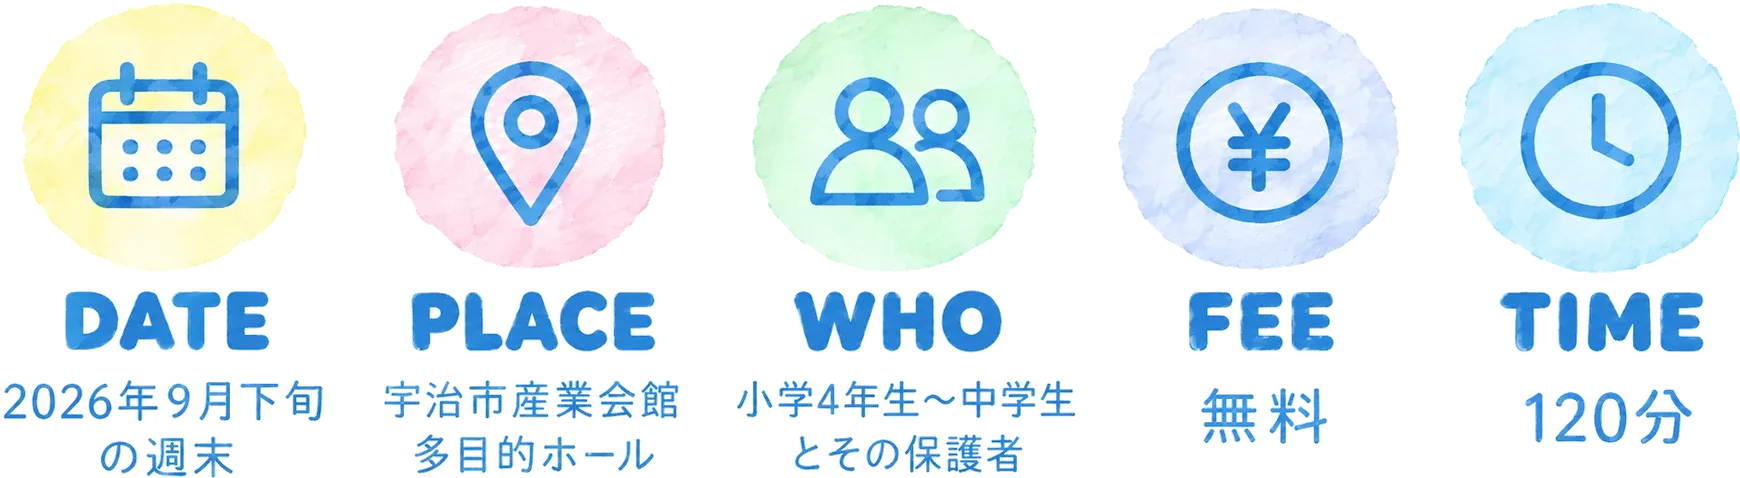
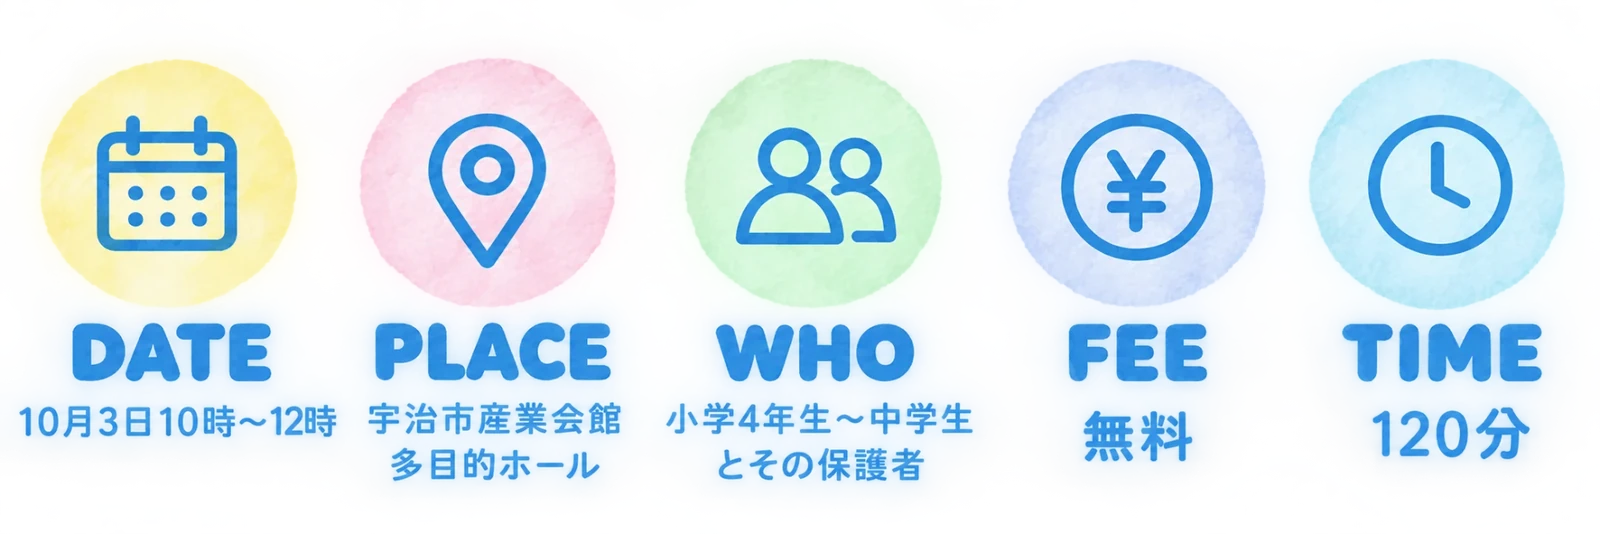
Update the event date to 2026-10-03 and swap the facts artwork
日程が確定したため、情報帯の画像を新しいものに差し替え、
ページ内の日程の表記をすべて入れ替えた。

- assets/hero-facts.webp を差し替え（1600x534 / 328KB）。縦横比が
  3.64 から 3.00 になり縦に伸びるぶん、下端が変わらないよう
  上端を 43.46cqw から 40.93cqw に上げた。キャッシュ対策に ?v=3
- 実施概要の日程: 2026年9月下旬の週末（調整中）→ 2026年10月3日（土）10時〜12時
- 「日程は決まりしだい、このページでお知らせします。」の一文を削除
- フッター: 2026年10月3日（土）・宇治市産業会館 多目的ホールで開催
- meta description / og:description、画像の代替テキスト、
  非表示のキーファクト（DATE）も同じ表記に

1280x800 / 1440x800 / 1920x1080 / 1366x657 / 390x760 で、情報帯が
ヒーローから切れずスクロールなしで全部見えることを確認。

diff --git a/index.html b/index.html
@@ -4,10 +4,10 @@
 <meta charset="utf-8">
 <meta name="viewport" content="width=device-width, initial-scale=1">
 <title>まちであそぶ、をつくる｜Playable City 入門ワークショップ（宇治NEXT）</title>
-<meta name="description" content="歩くと光の足あとが現れる装置「Color Shift Walk」を体験しながら、宇治のまちの遊び方を考える120分のワークショップ。2026年9月下旬・宇治市産業会館 多目的ホール、小学4年生〜中学生（保護者の同伴は任意）、参加無料。">
+<meta name="description" content="歩くと光の足あとが現れる装置「Color Shift Walk」を体験しながら、宇治のまちの遊び方を考える120分のワークショップ。2026年10月3日（土）10時〜12時・宇治市産業会館 多目的ホール、小学4年生〜中学生（保護者の同伴は任意）、参加無料。">
 <meta property="og:type" content="website">
 <meta property="og:title" content="まちであそぶ、をつくる｜Playable City 入門ワークショップ（宇治NEXT）">
-<meta property="og:description" content="歩くと光の足あとが現れる装置「Color Shift Walk」を体験しながら、宇治のまちの遊び方を考える120分のワークショップ。2026年9月下旬・宇治市産業会館 多目的ホール、小学4年生〜中学生（保護者の同伴は任意）、参加無料。">
+<meta property="og:description" content="歩くと光の足あとが現れる装置「Color Shift Walk」を体験しながら、宇治のまちの遊び方を考える120分のワークショップ。2026年10月3日（土）10時〜12時・宇治市産業会館 多目的ホール、小学4年生〜中学生（保護者の同伴は任意）、参加無料。">
 <meta property="og:image" content="https://machi-play.com/assets/ogp.jpg">
 <meta property="og:image:width" content="1200">
 <meta property="og:image:height" content="630">
@@ -170,7 +170,7 @@ html{scroll-padding-top:var(--nav-h)}
    「Playable City 入門ワークショップ」が地図の絵や付箋にかぶらないようにする（縦横比 1.7077） */
 .title-img{left:5.26cqw;top:max(4.6cqw,var(--hero-safe-top));width:min(46.7cqw,calc(1.7077 * (31.94cqw - max(4.6cqw,var(--hero-safe-top)))));height:auto;display:block}
 .facts-bg{left:0;top:40.2cqw;width:60cqw;height:18cqw;background:rgba(255,255,255,.93);border-radius:3cqw;filter:blur(16px);z-index:0}
-.facts-img{left:7.7cqw;top:43.46cqw;width:43.2cqw;height:auto;display:block;z-index:1}
+.facts-img{left:7.7cqw;top:40.93cqw;width:43.2cqw;height:auto;display:block;z-index:1}
 .hnote,.hnote p{font-family:"Yomogi","Zen Maru Gothic",cursive,sans-serif}
 .hnote{position:absolute;line-height:1.55}
 /* デモ体験の付箋（左右のアクセントも画像に含まれる）
@@ -653,7 +653,7 @@ footer a{color:#fff;text-decoration:none;border-bottom:1px solid rgba(255,255,25
     <div class="hero-art">
       <img class="title-img" width="625" height="366" src="assets/hero-title.webp?v=3" alt="まちで遊ぶことは まちを好きになること／まちであそぶ、をつくる — Playable City 入門ワークショップ" decoding="async">
       <span class="facts-bg" aria-hidden="true"></span>
-      <img class="facts-img" width="1740" height="478" src="assets/hero-facts.webp?v=2" alt="DATE 2026年9月下旬の週末／PLACE 宇治市産業会館 多目的ホール／WHO 小学4年生〜中学生（保護者の同伴は任意）／FEE 無料／TIME 120分" decoding="async">
+      <img class="facts-img" width="1600" height="534" src="assets/hero-facts.webp?v=3" alt="DATE 2026年10月3日（土）10時〜12時／PLACE 宇治市産業会館 多目的ホール／WHO 小学4年生〜中学生（保護者の同伴は任意）／FEE 無料／TIME 120分" decoding="async">
       <img class="hnote-demo-img" src="assets/hero-note-demo.webp" width="560" height="493" alt="" aria-hidden="true" decoding="async">
       <p class="hnote hnote-map" aria-hidden="true">こんな<br>まちに<br>したい！</p>
     </div>
@@ -668,8 +668,8 @@ footer a{color:#fff;text-decoration:none;border-bottom:1px solid rgba(255,255,25
         <div class="kf">
           <span class="ic"><svg class="blob" viewBox="0 0 76 66" aria-hidden="true"><path d="M40 6 C58 2 76 16 72 32 C69 48 56 66 36 63 C16 60 0 48 4 30 C7 14 22 9 40 6 Z" fill="rgba(255,212,59,.42)" opacity=".5" transform="rotate(16 38 33) scale(1.06) translate(-2 -2)"/><path d="M38 3 C55 1 74 12 73 28 C72 45 60 63 39 64 C19 65 3 51 3 32 C3 15 18 5 38 3 Z" fill="rgba(255,212,59,.42)"/></svg><svg class="glyph" viewBox="0 0 34 34"><rect x="5" y="8" width="24" height="21" rx="3"/><path d="M5 14 H29 M11 4 V9 M23 4 V9 M17 18 V25 M13.5 21.5 H20.5"/></svg></span>
           <p class="k">DATE</p>
-          <p class="v">2026年9月<ruby>下旬<rt>げじゅん</rt></ruby></p>
-          <p class="vs">の週末</p>
+          <p class="v">2026年10月3日（土）</p>
+          <p class="vs">10時〜12時</p>
         </div>
         <div class="kf">
           <span class="ic"><svg class="blob" viewBox="0 0 76 66" aria-hidden="true"><path d="M40 6 C58 2 76 16 72 32 C69 48 56 66 36 63 C16 60 0 48 4 30 C7 14 22 9 40 6 Z" fill="rgba(240,107,98,.30)" opacity=".5" transform="rotate(16 38 33) scale(1.06) translate(-2 -2)"/><path d="M38 3 C55 1 74 12 73 28 C72 45 60 63 39 64 C19 65 3 51 3 32 C3 15 18 5 38 3 Z" fill="rgba(240,107,98,.30)"/></svg><svg class="glyph" viewBox="0 0 34 34"><path d="M17 30 C17 30 27 21 27 14 A10 10 0 0 0 7 14 C7 21 17 30 17 30 Z"/><circle cx="17" cy="14" r="3.6"/></svg></span>
@@ -910,11 +910,11 @@ footer a{color:#fff;text-decoration:none;border-bottom:1px solid rgba(255,255,25
 <!-- 開催概要 -->
 <section class="sec" id="info">
   <div class="wrap">
-    <div class="sec-head rv"><h2>実施概要</h2><p><ruby>日程<rt>にってい</rt></ruby>は決まりしだい、このページでお知らせします。</p></div>
+    <div class="sec-head rv"><h2>実施概要</h2></div>
     <div class="info rv">
       <dl>
         <dt><ruby>名称<rt>めいしょう</rt></ruby></dt><dd>まちであそぶ、をつくる：Playable City 入門ワークショップ</dd>
-        <dt><ruby>日程<rt>にってい</rt></ruby></dt><dd>2026年9月<ruby>下旬<rt>げじゅん</rt></ruby>の週末<span class="badge">調整中</span></dd>
+        <dt><ruby>日程<rt>にってい</rt></ruby></dt><dd>2026年10月3日（土）10時〜12時</dd>
         <dt>会場</dt><dd>宇治市産業会館 多目的ホール（京都府宇治市）</dd>
         <dt><ruby>対象<rt>たいしょう</rt></ruby></dt><dd>小学4年生〜中学生（<ruby>保護者<rt>ほごしゃ</rt></ruby>の<ruby>同伴<rt>どうはん</rt></ruby>は<ruby>任意<rt>にんい</rt></ruby>）<br><span style="font-size:13px;color:#2C5E7E">* 学年が<ruby>対象<rt>たいしょう</rt></ruby>外のかたもご相談ください。学年や人数に<ruby>応<rt>おう</rt></ruby>じて参加いただけるか<ruby>検討<rt>けんとう</rt></ruby>します。</span></dd>
         <dt>定員</dt><dd>約20名</dd>
@@ -980,7 +980,7 @@ footer a{color:#fff;text-decoration:none;border-bottom:1px solid rgba(255,255,25
   <div class="f-grid">
     <div>
       <h4>まちであそぶ、をつくる</h4>
-      <p style="margin:0">Playable City 入門ワークショップ<br>2026年9月下旬・宇治市産業会館 多目的ホールで開催予定</p>
+      <p style="margin:0">Playable City 入門ワークショップ<br>2026年10月3日（土）・宇治市産業会館 多目的ホールで開催</p>
     </div>
     <div>
       <h4>主催・運営</h4>
